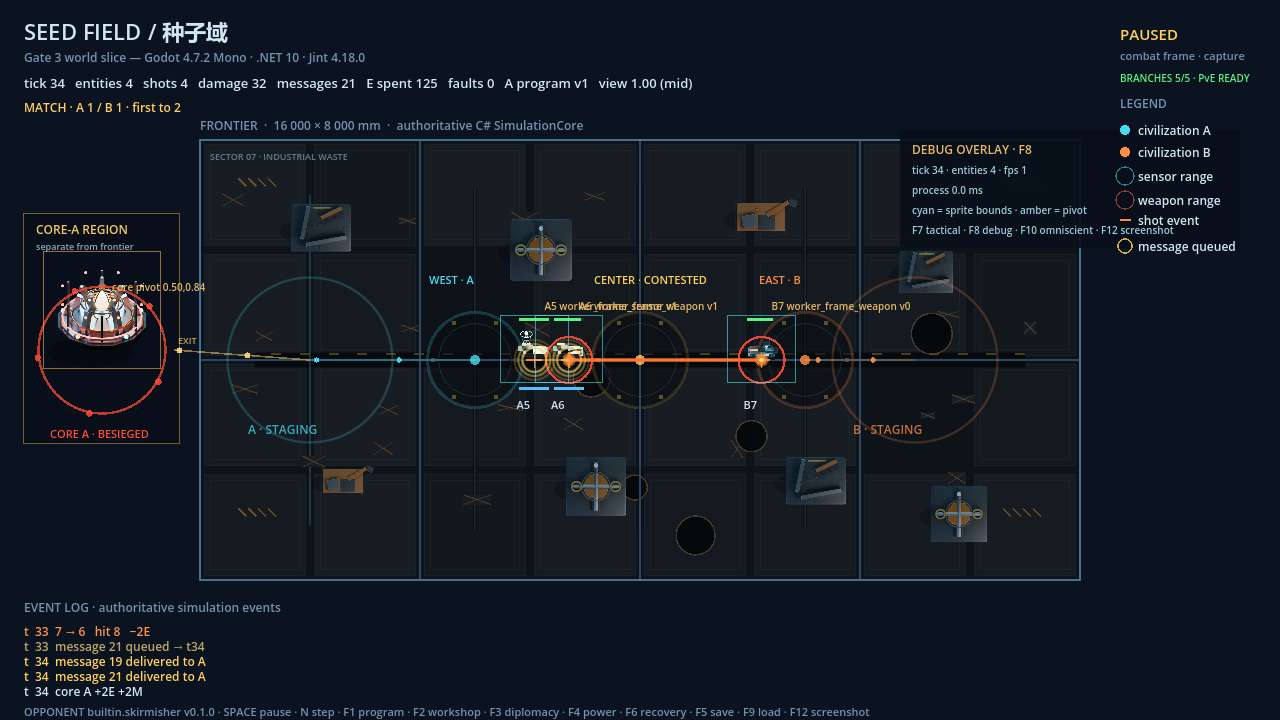
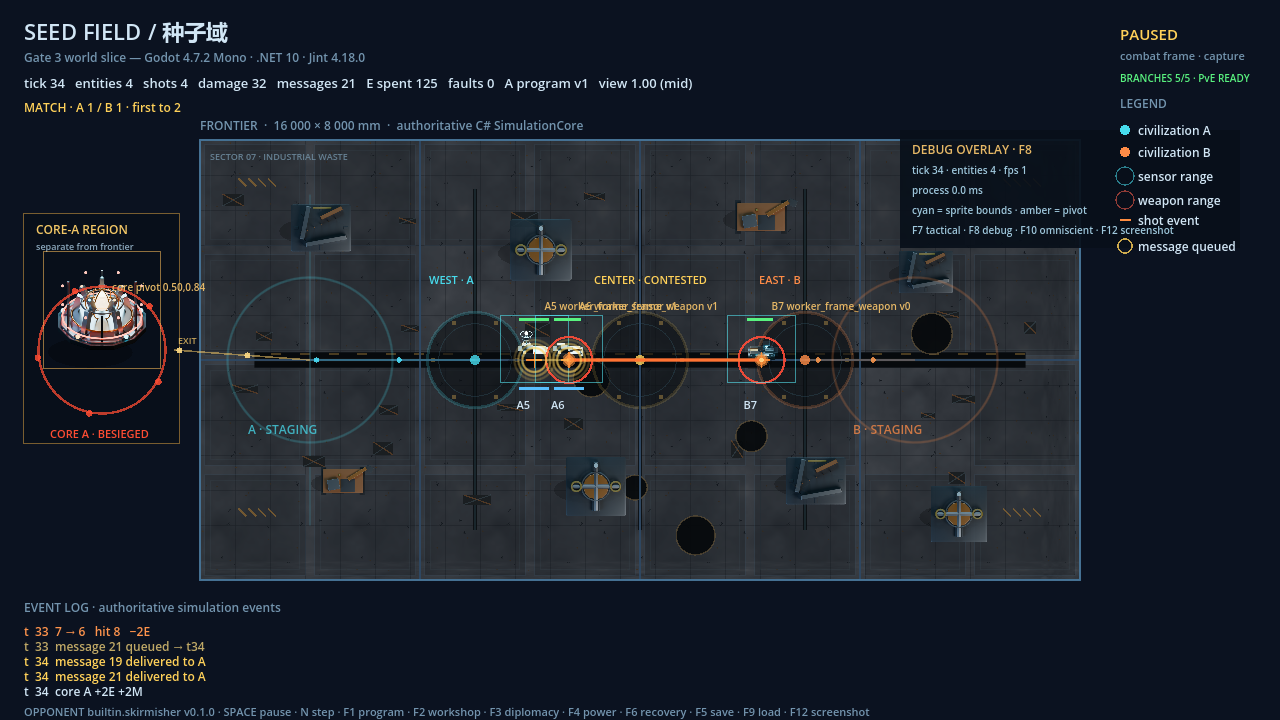
feat(game): SeedField 地表材质与 Main 纹理层
Tile the concrete/road materials under the industrial backdrop and draw a textured road strip. Re-capture far/mid/near and overlay screenshots.

diff --git a/game/SeedField.Game/Scripts/Presentation/WorldBackdrop.cs b/game/SeedField.Game/Scripts/Presentation/WorldBackdrop.cs
@@ -21,13 +21,34 @@ public static class WorldBackdrop
         CanvasItem canvas,
         Func<Vec2, Vector2> map,
         float mapScale,
-        IReadOnlyList<(Vec2 Position, int RadiusMm, string? Owner)> controlPoints)
+        IReadOnlyList<(Vec2 Position, int RadiusMm, string? Owner)> controlPoints,
+        Texture2D? ground = null,
+        Texture2D? road = null)
     {
         var origin = map(new Vec2(0, 0));
         var size = new Vector2(WidthMm * mapScale, HeightMm * mapScale);
         canvas.DrawRect(new Rect2(origin, size), new Color(0.055f, 0.075f, 0.100f, 1f));
+        if (ground is not null)
+        {
+            var tile = 140f * (mapScale / 0.055f);
+            for (var y = 0f; y < size.Y; y += tile)
+            {
+                for (var x = 0f; x < size.X; x += tile)
+                {
+                    var drawSize = new Vector2(
+                        Mathf.Min(tile, size.X - x),
+                        Mathf.Min(tile, size.Y - y));
+                    canvas.DrawTextureRect(
+                        ground,
+                        new Rect2(origin + new Vector2(x, y), drawSize),
+                        false,
+                        new Color(1f, 1f, 1f, 0.92f));
+                }
+            }
+        }
 
         DrawPlates(canvas, map, mapScale);
+        DrawRoadTexture(canvas, map, mapScale, road);
         DrawRoads(canvas, map, mapScale);
         DrawRuins(canvas, map, mapScale);
         DrawControlPads(canvas, map, mapScale, controlPoints);
@@ -70,7 +91,8 @@ public static class WorldBackdrop
                 var fill = new Color(
                     0.075f + tone * 0.020f,
                     0.095f + tone * 0.022f,
-                    0.115f + tone * 0.026f);
+                    0.115f + tone * 0.026f,
+                    0.32f);
                 canvas.DrawRect(plate, fill);
                 canvas.DrawRect(
                     plate,
@@ -84,6 +106,26 @@ public static class WorldBackdrop
                     1f);
             }
         }
+    }
+
+    private static void DrawRoadTexture(
+        CanvasItem canvas,
+        Func<Vec2, Vector2> map,
+        float mapScale,
+        Texture2D? road)
+    {
+        if (road is null)
+        {
+            return;
+        }
+
+        canvas.DrawTextureRect(
+            road,
+            new Rect2(
+                map(new Vec2(1_000, 3_850)),
+                new Vector2(14_000 * mapScale, 300 * mapScale)),
+            false,
+            new Color(0.78f, 0.82f, 0.88f, 0.82f));
     }
 
     private static void DrawRoads(

diff --git a/game/SeedField.Game/Scripts/Main.WorldVisuals.cs b/game/SeedField.Game/Scripts/Main.WorldVisuals.cs
@@ -59,7 +59,9 @@ public partial class Main
             MapScale,
             _world.ControlPoints.Values
                 .Select(point => (point.Position, point.RadiusMm, point.OwnerCivilizationId))
-                .ToList());
+                .ToList(),
+            _worldCatalog.Get("terrain_concrete")?.Diffuse,
+            _worldCatalog.Get("terrain_road")?.Diffuse);
     }
 
     private bool GridClosed(string civilizationId) =>

diff --git a/game/SeedField.Game/Scripts/Main.Presentation.cs b/game/SeedField.Game/Scripts/Main.Presentation.cs
@@ -51,6 +51,8 @@ public partial class Main
                 "ruin_block",
                 "pipe_junction",
                 "wreck_hauler",
+                "terrain_concrete",
+                "terrain_road",
             });
         _entityVisual = new EntityVisual(_visualCatalog);
         _coreVisual = new CoreVisual(_visualCatalog);
